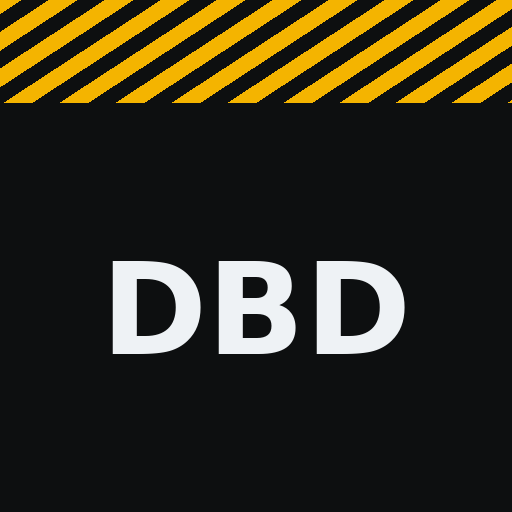
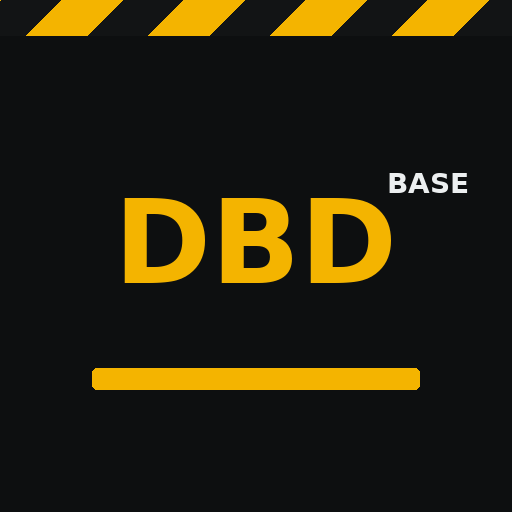
Add files via upload

Changed region(s): [[0.1562, 0.375, 0.8438, 0.7812], [0.0, 0.0, 1.0, 0.2188], [0.75, 0.3125, 0.9062, 0.375]]

diff --git a/app.js b/app.js
@@ -1,5 +1,5 @@
 const APP_VERSION='DBD Base v1.0';
-const BUILD_ID='base-1.0-renderer';
+const BUILD_ID='base-1.0-r2';
 const STORAGE_KEY='dbd_gazali';
 const LARGE_PACKET_THRESHOLD=15;
 const SUBJECTS=[
@@ -6792,6 +6792,32 @@ bootLite10=function(){
 };
 
 /* ================= END DBD BASE v1.0 ================= */
+
+
+/* =====================================================================
+   DBD BASE v1.0 — r2 polish
+   Subject aliases/merging + simpler header/home + responsive pending cards.
+   ===================================================================== */
+let BASE_SUBJECT_EDITOR_OPEN=false;
+function baseSubjectRecords(){ensureSubjectRegistry(DATA);return(DATA.subjectRegistry||[]).slice().sort((a,b)=>String(a.name||'').localeCompare(String(b.name||'')))}
+function baseSubjectAliases(rec){const seen=new Set(),out=[];for(const raw of[rec?.name,...(rec?.aliases||[])]){const s=String(raw||'').trim();if(!s)continue;const k=aliasNorm(s);if(seen.has(k))continue;seen.add(k);out.push(s)}return out}
+function baseSubjectMatches(rec,label){if(!rec||!label)return false;const n=aliasNorm(label);return baseSubjectAliases(rec).some(a=>aliasNorm(a)===n)}
+function baseSubjectSummaryRec(rec){const sessions=(DATA.completedSessions||[]).filter(s=>baseSubjectMatches(rec,s.subject));const active=(DATA.activeSessions||[]).filter(a=>baseSubjectMatches(rec,a.packet?.subject));const pending=DATA.pendingPacket?.packet&&baseSubjectMatches(rec,DATA.pendingPacket.packet.subject)?1:0;const answered=sessions.reduce((n,s)=>n+Number(s.answered||s.totalQuestions||0),0);return{sessions,active,pending,answered}}
+function baseOpenSubject(id){selectedSubjectId=`base:${encodeURIComponent(id)}`;render();window.scrollTo({top:0,behavior:'smooth'})}
+function baseCloseSubject(){selectedSubjectId=null;render()}
+function baseSelectedSubject(){if(!selectedSubjectId||!String(selectedSubjectId).startsWith('base:'))return null;let id='';try{id=decodeURIComponent(String(selectedSubjectId).slice(5))}catch(e){return null}return(DATA.subjectRegistry||[]).find(s=>s.id===id)||null}
+function baseRewriteSubjectRefs(fromId,toId){for(const q of DATA.questionBank||[])if(q.subjectId===fromId)q.subjectId=toId;for(const c of DATA.bankCollections||[])if(c.subjectId===fromId)c.subjectId=toId;for(const a of DATA.streamEngine?.attempts||[])if(a.subjectId===fromId)a.subjectId=toId;for(const f of DATA.questionFeedback||[])if(f.subjectId===fromId)f.subjectId=toId;if(Array.isArray(DATA.subjectManifests)){for(const m of DATA.subjectManifests)if(m.subjectId===fromId)m.subjectId=toId;const best=new Map();for(const m of DATA.subjectManifests){const old=best.get(m.subjectId);if(!old||Number(m.revision||0)>=Number(old.revision||0))best.set(m.subjectId,m)}DATA.subjectManifests=[...best.values()]}if(Array.isArray(DATA.conceptManifests)){for(const m of DATA.conceptManifests)if(m.subjectId===fromId)m.subjectId=toId}}
+function baseMergeSubjects(targetId,sourceId,canonicalName=''){if(!targetId||!sourceId||targetId===sourceId){alert('Choose two different subjects.');return}const target=(DATA.subjectRegistry||[]).find(s=>s.id===targetId),source=(DATA.subjectRegistry||[]).find(s=>s.id===sourceId);if(!target||!source){alert('Subject could not be found.');return}const oldTargetName=String(target.name||'').trim(),wanted=String(canonicalName||oldTargetName||source.name||'Subject').trim(),merged=[oldTargetName,source.name,...(target.aliases||[]),...(source.aliases||[])];target.name=wanted;target.aliases=[...new Set(merged.map(String).map(x=>x.trim()).filter(Boolean))].filter(a=>aliasNorm(a)!==aliasNorm(wanted));target.manual=true;target.updatedAt=new Date().toISOString();baseRewriteSubjectRefs(source.id,target.id);DATA.subjectRegistry=(DATA.subjectRegistry||[]).filter(s=>s.id!==source.id);DATA.streams=(DATA.subjectRegistry||[]).map(r=>({id:r.id,name:r.name,campaign:'Custom',active:r.active!==false,priority:r.priority||'normal'}));save();selectedSubjectId=null;alert(`Merged "${source.name}" into "${target.name}". Historical labels were preserved as aliases.`);render()}
+function baseMergeSubjectsFromEditor(){const keep=document.getElementById('base-merge-keep')?.value,merge=document.getElementById('base-merge-source')?.value,name=document.getElementById('base-merge-name')?.value||'';baseMergeSubjects(keep,merge,name)}
+function baseRenameSubject(id){const rec=(DATA.subjectRegistry||[]).find(s=>s.id===id);if(!rec)return;const name=prompt('Canonical subject name:',rec.name);if(name===null)return;const next=String(name).trim();if(!next)return;if(aliasNorm(next)!==aliasNorm(rec.name)&&!rec.aliases.some(a=>aliasNorm(a)===aliasNorm(rec.name)))rec.aliases.push(rec.name);rec.name=next;rec.aliases=[...new Set((rec.aliases||[]).map(String).filter(Boolean))].filter(a=>aliasNorm(a)!==aliasNorm(next));rec.manual=true;rec.updatedAt=new Date().toISOString();save();render()}
+function baseAddAlias(id){const rec=(DATA.subjectRegistry||[]).find(s=>s.id===id);if(!rec)return;const alias=prompt(`Add an alias for ${rec.name}:`,'');if(alias===null)return;const clean=String(alias).trim();if(!clean)return;if(aliasNorm(clean)!==aliasNorm(rec.name)&&!(rec.aliases||[]).some(a=>aliasNorm(a)===aliasNorm(clean))){rec.aliases=[...(rec.aliases||[]),clean];rec.manual=true;rec.updatedAt=new Date().toISOString();save();render()}}
+function baseSubjectEditorHtml(records){if(!BASE_SUBJECT_EDITOR_OPEN)return'';const opts=records.map(s=>`<option value="${esc(s.id)}">${esc(s.name)}</option>`).join('');return`<section class="base-subject-editor"><div class="base-editor-head"><div><strong>Subject editor</strong><small>Merge duplicate subject lanes without deleting old history.</small></div><button class="base-editor-close" onclick="BASE_SUBJECT_EDITOR_OPEN=false;render()">×</button></div><div class="base-editor-grid"><div class="field"><label>Keep as canonical</label><select id="base-merge-keep">${opts}</select></div><div class="field"><label>Merge into it</label><select id="base-merge-source">${opts}</select></div></div><div class="field"><label>Canonical display name (optional)</label><input id="base-merge-name" placeholder="Leave blank to keep the first subject name"></div><button class="button primary block" onclick="baseMergeSubjectsFromEditor()">MERGE SUBJECTS</button><div class="base-editor-note">The removed subject name becomes an alias. Completed drills keep their original text, while Base resolves those labels to the canonical subject in the Subjects view.</div></section>`}
+subjectsView=function(){const selected=baseSelectedSubject(),records=baseSubjectRecords();if(selected){const x=baseSubjectSummaryRec(selected),aliases=baseSubjectAliases(selected).filter(a=>aliasNorm(a)!==aliasNorm(selected.name)),recent=x.sessions.slice().sort((a,b)=>new Date(b.completedAt)-new Date(a.completedAt)).slice(0,6);return`<section class="dev2-page"><button class="back-link" onclick="baseCloseSubject()">← Subjects</button><div class="lite-home-hero base-subject-hero"><div class="eyebrow">Subject</div><h1>${esc(selected.name)}</h1>${aliases.length?`<div class="base-alias-line"><span>ALIASES</span>${aliases.map(a=>`<code>${esc(a)}</code>`).join('')}</div>`:''}<p>${x.sessions.length} completed drills · ${x.answered} historical answers${x.active.length?` · ${x.active.length} ongoing`:''}${x.pending?' · packet waiting':''}.</p><div class="lite-subject-actions"><button class="button primary" onclick='copyLitePrompt(this,${JSON.stringify(selected.name)})'>COPY PROMPT</button><button class="button" onclick="route('import')">IMPORT PACKAGE</button></div><div class="base-subject-edit-actions"><button class="button tiny" onclick="baseRenameSubject('${selected.id}')">RENAME</button><button class="button tiny" onclick="baseAddAlias('${selected.id}')">ADD ALIAS</button></div></div><div class="lite-recent">${recent.length?recent.map(s=>`<div class="lite-recent-row"><div><strong>${esc(s.topic||'Drill')}</strong><small>${esc(s.subject)} · ${esc(sessionTestType(s))} · ${dev2HumanDate(s.completedAt)}</small></div><strong>${s.correct||0}/${s.totalQuestions||s.answered||0}</strong></div>`).join(''):`<div class="lite-recent-row"><div><strong>No completed drills yet</strong><small>Import a packet when this subject is ready.</small></div></div>`}</div></section>`}return`<section class="dev2-page base-subjects-page"><div class="dev2-page-head"><div><div class="eyebrow">Canonical lanes</div><h1>Subjects</h1><p>Aliases let different packet names resolve to one subject without rewriting old history.</p></div><button class="button tiny" onclick="BASE_SUBJECT_EDITOR_OPEN=!BASE_SUBJECT_EDITOR_OPEN;render()">${BASE_SUBJECT_EDITOR_OPEN?'CLOSE EDITOR':'EDIT SUBJECTS'}</button></div>${baseSubjectEditorHtml(records)}<div class="lite-subject-list">${records.map(rec=>{const x=baseSubjectSummaryRec(rec),aliases=baseSubjectAliases(rec).filter(a=>aliasNorm(a)!==aliasNorm(rec.name));return`<button class="lite-subject-card base-subject-card" onclick="baseOpenSubject('${rec.id}')"><div><h3>${esc(rec.name)}</h3><p>${x.sessions.length} completed drills · ${x.answered} answers${x.active.length?` · ${x.active.length} ongoing`:''}</p>${aliases.length?`<div class="base-card-aliases">${aliases.slice(0,4).map(a=>`<code>${esc(a)}</code>`).join('')}${aliases.length>4?`<span>+${aliases.length-4}</span>`:''}</div>`:''}</div><div class="right"><strong>${x.sessions.length}</strong><small>DRILLS</small></div></button>`}).join('')||'<div class="empty">No subjects yet. Import your first packet from Home.</div>'}</div></section>`};
+function baseHomeR2(){const drills=DATA.completedSessions.length,answered=liteSessionAnswered(),ongoing=DATA.activeSessions.length+(DATA.pendingPacket?1:0);return`<section class="lite-home"><div class="lite-home-hero base-home-r2"><div class="base-home-kicker">DBD Base v1.0</div><h1>Ready to drill.</h1><div class="lite-primary-actions"><button class="button primary" onclick="copyLitePrompt(this)">COPY PROMPT</button><button class="button" onclick="route('import')">IMPORT PACKAGE</button></div></div>${ongoingSessions(true)}<div class="lite-stat-strip"><div class="lite-stat"><strong>${drills}</strong><span>Completed drills</span></div><div class="lite-stat"><strong>${answered}</strong><span>Answered</span></div><div class="lite-stat"><strong>${ongoing}</strong><span>Ongoing</span></div></div></section>`}
+home=function(){return baseHomeR2()};
+renderNav=function(){const nav=document.getElementById('navigation');if(view==='drill'){nav.innerHTML='';return}const items=[['subjects','Subjects'],['history','History']];nav.innerHTML=items.map(([id,l])=>`<button class="${view===id?'active':''}" onclick="route('${id}')">${l}</button>`).join('')+`<button class="nav-gear-dev2 ${view==='data'?'active':''}" onclick="route('data')" aria-label="Settings">⚙</button>`};
+dataView=function(){const bytes=new Blob([JSON.stringify(DATA)]).size,size=bytes<1048576?`${(bytes/1024).toFixed(1)} KB`:`${(bytes/1048576).toFixed(2)} MB`,legacyBank=(DATA.questionBank||[]).length,legacyAttempts=(DATA.streamEngine?.attempts||[]).length,records=baseSubjectRecords(),aliasCount=records.reduce((n,r)=>n+baseSubjectAliases(r).filter(a=>aliasNorm(a)!==aliasNorm(r.name)).length,0);return`<section class="dev2-page"><div class="dev2-page-head"><div><div class="eyebrow">DBD Base v1.0 · ${BUILD_ID}</div><h1>Settings</h1><p>${BASE_SCHEMA_LABEL}. Numeric compatibility remains Schema 7.</p></div></div><div class="settings-group"><div class="settings-title">Base model</div><div class="metric-row"><span>Product</span><strong>DBD Base v1.0</strong></div><div class="metric-row"><span>Data schema</span><strong>${BASE_SCHEMA_LABEL}</strong></div><div class="metric-row"><span>Runtime</span><strong>JSON packet → render → drill → history</strong></div><div class="metric-row"><span>Canonical subjects</span><strong>${records.length}</strong></div><div class="metric-row"><span>Subject aliases</span><strong>${aliasCount}</strong></div></div><div class="settings-group"><div class="settings-title">Subject schema</div>${records.length?records.map(r=>{const aliases=baseSubjectAliases(r).filter(a=>aliasNorm(a)!==aliasNorm(r.name));return`<div class="base-schema-subject"><strong>${esc(r.name)}</strong><small>${aliases.length?`aliases: ${esc(aliases.join(' · '))}`:'no aliases'}</small></div>`}).join(''):'<div class="note">No subjects yet.</div>'}</div><div class="settings-group"><div class="settings-title">Renderer capabilities</div><div class="metric-row"><span>Question surfaces</span><strong>MCQ · numeric · short · essay · SVG</strong></div><div class="metric-row"><span>Optional tools</span><strong>calculator · flexible answer match</strong></div></div><div class="settings-group"><div class="settings-title">Preserved experimental data</div><div class="lite-legacy-note"><strong>${legacyBank} old Question Bank records</strong> and <strong>${legacyAttempts} experimental Stream attempts</strong> remain in the Vault for compatibility/history. Base does not schedule them.</div></div><div class="settings-group"><div class="settings-title">DBD Vault</div><p class="note">The browser key remains <strong>dbd_gazali</strong>.</p><div class="data-actions"><button class="button primary" onclick="exportVault()">EXPORT VAULT</button><button class="button" onclick="mergeVault()">MERGE VAULT</button></div><details class="validation-details" style="margin-top:10px"><summary>Replacement restore</summary><div><button class="button small" onclick="importBackup()">REPLACE FROM BACKUP</button></div></details></div><div class="settings-group"><div class="settings-title">Storage</div><div class="metric-row"><span>Approx. local data</span><strong>${size}</strong></div></div></section>`};
+/* ================= END DBD BASE v1.0 r2 ================= */
 
 bootLite10();
 /* ================= END v0.9.8.4.1 BOOT ================= */

diff --git a/app.css b/app.css
@@ -1918,3 +1918,9 @@ button{touch-action:manipulation;-webkit-tap-highlight-color:transparent}
 @media(max-width:560px){
   .brand .base-badge b{font-size:.47rem!important}
 }
+
+/* =====================================================================
+   DBD BASE v1.0 r2 — responsive shell + subject editor
+   ===================================================================== */
+.brand .base-badge,.brand .lite-badge{display:none!important}.brand strong{display:inline-flex!important;align-items:flex-start!important;white-space:nowrap}.base-sup{position:relative;top:-.42em;margin-left:.42em;color:var(--yellow);font-family:ui-monospace,SFMono-Regular,Menlo,Monaco,Consolas,"Liberation Mono","Courier New",monospace!important;font-size:.37em;font-weight:800;letter-spacing:.1em;line-height:1}.topbar{display:flex!important;flex-direction:row!important;align-items:center!important;gap:10px!important}#navigation{margin-left:auto!important;width:auto!important;display:flex!important;flex-wrap:nowrap!important;align-items:center!important;gap:5px!important;min-width:0}#navigation button{min-width:0;white-space:nowrap}#navigation .nav-gear-dev2{width:42px;flex:0 0 42px}.base-home-r2{padding-bottom:20px}.base-home-r2 h1{margin-bottom:4px}.base-home-r2 .lite-primary-actions{margin-top:16px}.embedded-ongoing,.embedded-ongoing .session,.session,.session-head,.session-head>div,.session-head .actions{min-width:0!important;max-width:100%!important;box-sizing:border-box}.embedded-ongoing{overflow:hidden}.embedded-ongoing .session,.pending-session{overflow:hidden!important}.session-head{display:grid!important;grid-template-columns:minmax(0,1fr) auto!important;align-items:start!important;gap:10px!important}.session-head>div:first-child{overflow:hidden}.session-head strong,.session-head small{display:inline;max-width:100%;overflow-wrap:anywhere;word-break:break-word}.session-head small{color:var(--muted);line-height:1.45}.session-head .actions{display:flex;flex-wrap:wrap;justify-content:flex-end;gap:6px}.pending-session .pending-badge{max-width:100%;overflow-wrap:anywhere}.base-subject-editor{margin:0 0 14px;padding:14px;border:1px solid rgba(244,180,0,.28);border-radius:15px;background:linear-gradient(180deg,rgba(244,180,0,.055),#111416)}.base-editor-head{display:flex;align-items:flex-start;justify-content:space-between;gap:10px;margin-bottom:12px}.base-editor-head strong{display:block;font-size:1rem}.base-editor-head small{display:block;margin-top:3px;color:var(--muted);font-size:.66rem;line-height:1.4}.base-editor-close{flex:0 0 34px;width:34px;height:34px;border:1px solid var(--line);border-radius:999px;background:#111416;color:var(--muted);font-size:1.1rem}.base-editor-grid{display:grid;grid-template-columns:repeat(2,minmax(0,1fr));gap:9px}.base-editor-note{margin-top:9px;color:#788187;font-size:.58rem;line-height:1.45}.base-alias-line,.base-card-aliases{display:flex;flex-wrap:wrap;align-items:center;gap:5px}.base-alias-line{margin:8px 0 4px}.base-alias-line>span{color:var(--muted);font-size:.54rem;font-weight:800;letter-spacing:.09em}.base-alias-line code,.base-card-aliases code{padding:3px 6px;border:1px solid rgba(244,180,0,.2);border-radius:999px;background:rgba(244,180,0,.045);color:#c7b778;font-family:ui-monospace,SFMono-Regular,Menlo,Monaco,Consolas,monospace;font-size:.55rem}.base-card-aliases{margin-top:6px}.base-card-aliases span{color:var(--muted);font-size:.55rem}.base-subject-card>div:first-child{min-width:0}.base-subject-card h3,.base-subject-card p{overflow-wrap:anywhere}.base-subject-edit-actions{display:flex;gap:7px;margin-top:9px;flex-wrap:wrap}.base-schema-subject{display:grid;gap:3px;padding:10px 0;border-bottom:1px solid rgba(255,255,255,.06)}.base-schema-subject:last-child{border-bottom:0}.base-schema-subject small{color:var(--muted);overflow-wrap:anywhere}@media(max-width:620px){header .topbar{padding:10px 12px!important;gap:7px!important}.brand{width:auto!important;flex:0 0 auto}.brand strong{font-size:1.55rem!important}#navigation{gap:3px!important}#navigation button{padding:8px 9px!important;font-size:.61rem!important}#navigation .nav-gear-dev2{width:38px!important;flex-basis:38px!important;padding:0!important}.session-head{grid-template-columns:1fr!important}.session-head .actions{justify-content:flex-start!important;width:100%!important}.session-head .actions .button{flex:0 1 auto!important;max-width:100%}.base-editor-grid{grid-template-columns:1fr}}@media(max-width:390px){header .topbar{padding-left:9px!important;padding-right:9px!important}.brand strong{font-size:1.42rem!important}.base-sup{font-size:.34em}#navigation button{padding:7px 7px!important;font-size:.56rem!important}#navigation .nav-gear-dev2{width:34px!important;flex-basis:34px!important}}
+/* ================= END DBD BASE v1.0 r2 ================= */

diff --git a/index.html b/index.html
@@ -10,6 +10,9 @@
   <title>DBD Base v1.0 — Drill Baby Drill</title>
   <meta name="theme-color" content="#0d0f10">
   <link rel="manifest" href="manifest.webmanifest">
+  <link rel="icon" type="image/svg+xml" href="favicon.svg">
+  <link rel="icon" type="image/png" sizes="32x32" href="favicon-32.png">
+  <link rel="apple-touch-icon" href="icon-192.png">
   <link rel="preconnect" href="https://fonts.googleapis.com">
   <link rel="preconnect" href="https://fonts.gstatic.com" crossorigin>
   <link href="https://fonts.googleapis.com/css2?family=Inter:wght@400;500;600;700;800;900&display=swap" rel="stylesheet">
@@ -17,7 +20,7 @@
 </head>
 <body>
   <div class="hazard"></div>
-  <header><div class="topbar"><button class="brand brand-button" onclick="homeFromLogo()" aria-label="DBD Base home"><strong>DBD</strong><i class="base-badge" aria-label="Base"><b>BASE</b></i></button><nav id="navigation"></nav></div></header>
+  <header><div class="topbar"><button class="brand brand-button" onclick="homeFromLogo()" aria-label="DBD Base home"><strong>DBD<sup class="base-sup">BASE</sup></strong></button><nav id="navigation"></nav></div></header>
   <main id="application"></main>
 <script src="app.js?v=base10"></script>
 </body>

diff --git a/sw.js b/sw.js
@@ -1,3 +1,4 @@
+/* DBD Base v1.0 r2 — cache retirement. */
 /* DBD Base v1.0 — retire stale experimental caches. */
 self.addEventListener('install',event=>event.waitUntil(self.skipWaiting()));
 self.addEventListener('activate',event=>event.waitUntil((async()=>{try{const keys=await caches.keys();await Promise.all(keys.filter(k=>String(k).startsWith('dbd-')).map(k=>caches.delete(k)));await self.clients.claim();await self.registration.unregister();}catch(e){}})()));

diff --git a/README.md b/README.md
@@ -1,3 +1,19 @@
+# DBD Base v1.0 — r2 polish
+
+Build ID: `base-1.0-r2`.
+
+## Changes
+- Header has Subjects, History and Settings only; the DBD wordmark is Home.
+- BASE is a small monospace superscript, not a badge shape.
+- Home removes explanatory copy and renderer-capability copy.
+- Long pending-packet titles/filenames wrap safely on phones.
+- Subject Editor can merge subjects, rename canonical subjects and add aliases.
+- Merges preserve old completed-drill labels while grouping them through aliases.
+- Schema 7 Base Settings shows canonical subjects and aliases.
+- New PWA icons, maskable metadata, Apple touch icon, and favicon.
+
+---
+
 # DBD Base v1.0
 
 **Product:** DBD Base  
